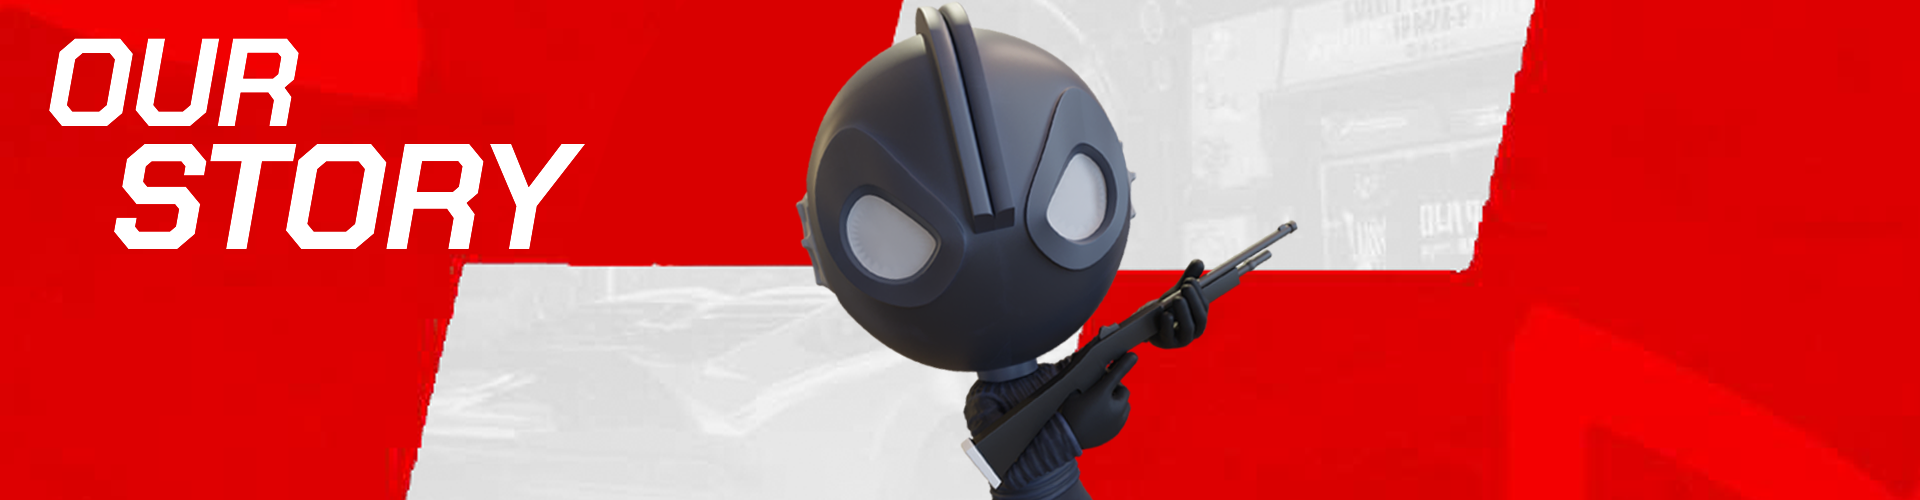
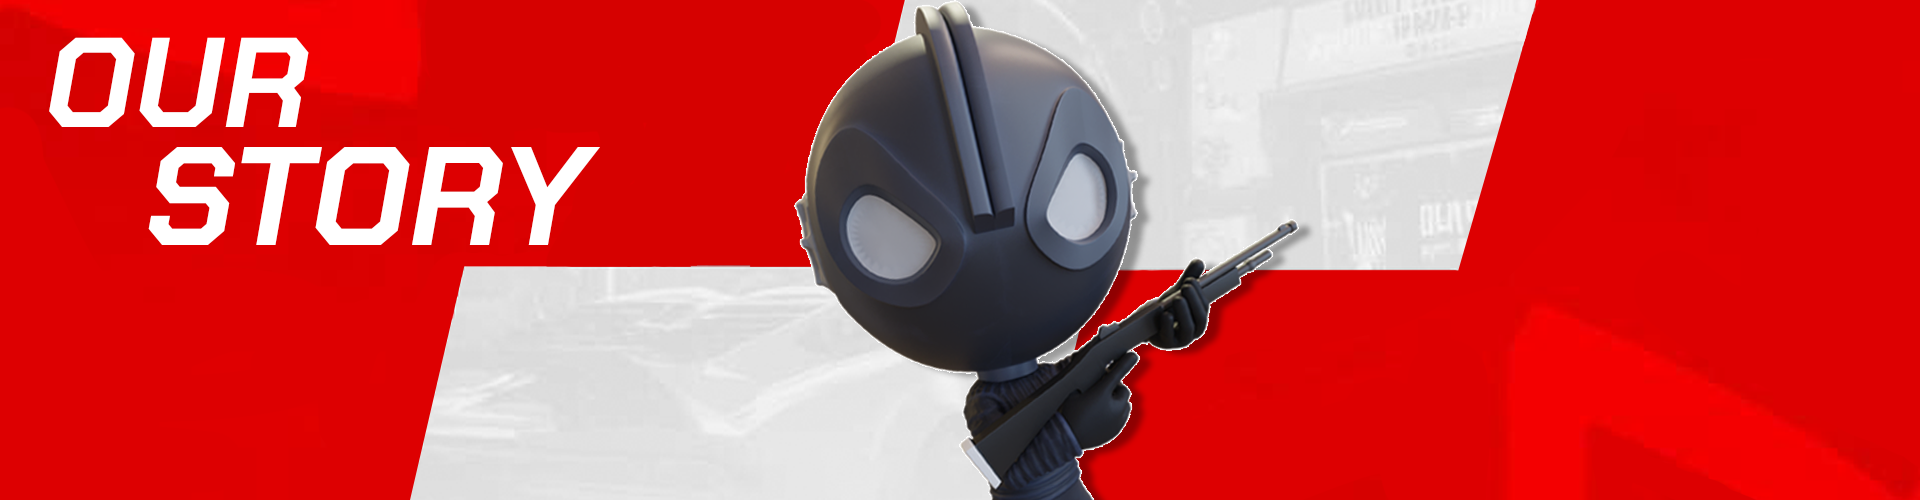
Fix: Change Background Image

diff --git a/index.html b/index.html
@@ -182,7 +182,9 @@
           <div class="item">
             <div
               class="slide-image"
-              style="background-image: url('./assets/images/main-slider/1.jpg')"
+              style="
+                background-image: url('./assets/images/background/MainImage_1.png');
+              "
             ></div>
             <div class="slide-content">
               <div class="platform-icons">
@@ -208,7 +210,9 @@
           <div class="item">
             <div
               class="slide-image"
-              style="background-image: url('./assets/images/main-slider/2.jpg')"
+              style="
+                background-image: url('./assets/images/background/MainImage_2.png');
+              "
             ></div>
             <div class="slide-content">
               <div class="platform-icons">
@@ -236,7 +240,9 @@
           <div class="item">
             <div
               class="slide-image"
-              style="background-image: url('./assets/images/main-slider/3.jpg')"
+              style="
+                background-image: url('./assets/images/background/MainImage_3.png');
+              "
             ></div>
             <div class="slide-content">
               <div class="platform-icons">

diff --git a/assets/css/style.css b/assets/css/style.css
@@ -619,7 +619,7 @@ Slider Section
   position: relative;
   width: 100%;
   height: 100%;
-  background: rgba(0, 0, 0, 0.7);
+  background: rgba(0, 0, 0, 0.5);
   display: flex;
   justify-content: center;
   align-items: center;
@@ -1459,10 +1459,10 @@ Counter Section
 */
 
 .section-counter {
-  background-image: url("../images/background/bg-1.jpg");
+  background-image: url("../images/background/Mid_Banner.png");
   background-repeat: no-repeat;
   background-position: center;
-  background-size: cover;
+  background-size: 100% 100%;
 }
 
 .section-counter::before {
@@ -2013,6 +2013,17 @@ Pages - Banner Section
   background-size: 100% 100%;
 }
 
+.contact-banner {
+  background-image:
+    url("../images/background/OurContact.png");
+  background-size: 100% 100%;
+}
+
+.gallery-banner {
+  background-image:
+    url("../images/background/OurMoments.png");
+  background-size: 100% 100%;
+}
 
 
 

diff --git a/pages/gallery.html b/pages/gallery.html
@@ -177,9 +177,9 @@
         </nav>
       </header>
       <!--Section Banner-->
-      <section class="section section-banner container-fluid">
+      <section class="section section-banner gallery-banner container-fluid">
         <div class="banner-content">
-          <h1>our gallery</h1>
+          <!-- <h1>our gallery</h1> -->
         </div>
       </section>
       <!--Gallery Section-->

diff --git a/pages/contact.html b/pages/contact.html
@@ -179,7 +179,7 @@
       <!--Section Banner-->
       <section class="section section-banner contact-banner container-fluid">
         <div class="banner-content">
-          <h1>Contact Us</h1>
+          <!-- <h1>Contact Us</h1> -->
         </div>
       </section>
       <!--Contact Section-->
